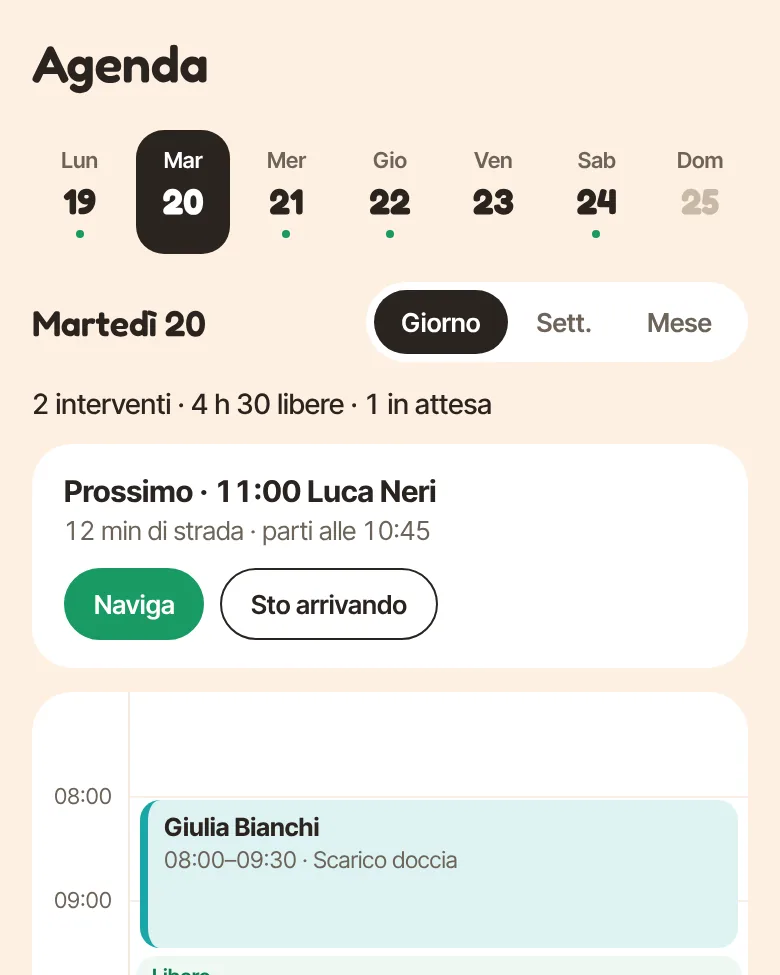
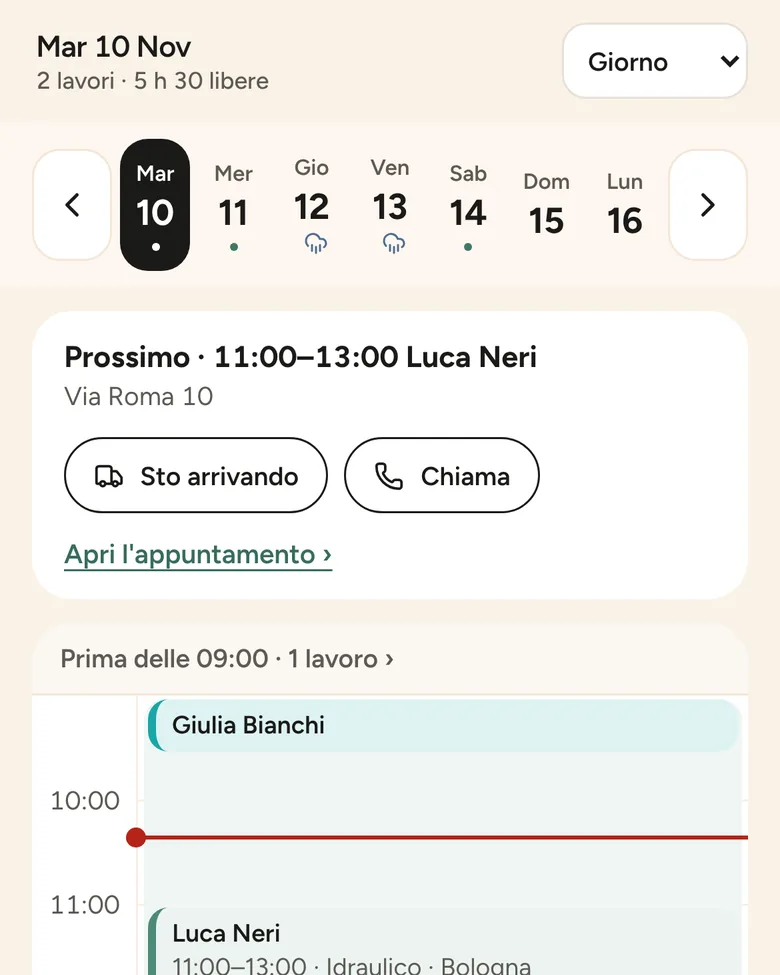
Pagina per i professionisti: agenda con i colori nuovi, prezzo e nessun costo per contatto in alto, iscrizione in fondo e in alto
Claude-Session: https://claude.ai/code/session_01MRkTJUpc92sCTCJFKag1WJ

diff --git a/apps/web/src/app/per-professionisti/PerProfessionistiContent.tsx b/apps/web/src/app/per-professionisti/PerProfessionistiContent.tsx
@@ -57,14 +57,16 @@ export function PerProfessionistiContent({ founders = null }: { founders?: Found
 
   return (
     <YStack width="100%" alignItems="center" backgroundColor="transparent">
-      <ProHero ctaHref={ctaHref} ctaLabel={ctaLabel} />
+      {/* Prima come si trovano i clienti, poi come si viene pagati
+          (docs/changelog/2026-11-12-pagina-per-professionisti.md). */}
+      <ProHero ctaHref={ctaHref} ctaLabel={ctaLabel} offerMonths={founders?.offerMonths ?? null} />
       <ProPhoto />
-      <ProOnlinePayment />
       <ProBenefits />
       <ProSteps />
+      <ProOnlinePayment />
       <ProPricing isProfessional={Boolean(user?.isProfessional)} founders={founders} />
       <ProFaq offerMonths={founders?.offerMonths ?? null} />
-      <ProFinalCta />
+      <ProFinalCta ctaHref={ctaHref} ctaLabel={ctaLabel} />
     </YStack>
   );
 }
@@ -150,7 +152,24 @@ function SectionTitle({ children, lead }: { children: ReactNode; lead?: string }
 }
 
 /** Titolo centrato a due toni con alone verde, pillola sopra e due pulsanti. */
-function ProHero({ ctaHref, ctaLabel }: { ctaHref: string; ctaLabel: string }) {
+/**
+ * Tre punti sotto i pulsanti, già nel primo schermo
+ * (docs/changelog/2026-11-12-pagina-per-professionisti.md): niente costo per
+ * contatto (i siti simili fanno pagare ogni richiesta), il prezzo vero dopo i
+ * mesi gratis, nessun vincolo.
+ */
+function heroPoints(offerMonths: number | null): string[] {
+  const base = SUBSCRIPTION_TIERS.find((tier) => tier.tier === "BASE");
+  const price = base ? `${formatEur(base.priceEurCents)} + IVA al mese` : null;
+  const months = offerMonths === 1 ? "1 mese gratis" : `${offerMonths} mesi gratis`;
+  return [
+    "Nessun costo per contatto",
+    ...(price ? [offerMonths ? `${months}, poi ${price}` : `Da ${price}`] : []),
+    "Annulli quando vuoi",
+  ];
+}
+
+function ProHero({ ctaHref, ctaLabel, offerMonths }: { ctaHref: string; ctaLabel: string; offerMonths: number | null }) {
   return (
     <Band>
       <div
@@ -195,7 +214,7 @@ function ProHero({ ctaHref, ctaLabel }: { ctaHref: string; ctaLabel: string }) {
           </Text>
 
           <Text fontSize="6" lineHeight="28px" color={brand.grafite70} textAlign="center" maxWidth={560}>
-            Ricevi richieste di lavoro vicino a te, manda preventivi chiari e gestisci appuntamenti e recensioni in un unico posto.
+            Richieste di lavoro vicino a te, preventivi chiari, agenda e recensioni. Tutto in un posto.
           </Text>
 
           <XStack gap="3" flexWrap="wrap" justifyContent="center" marginTop="2">
@@ -209,11 +228,15 @@ function ProHero({ ctaHref, ctaLabel }: { ctaHref: string; ctaLabel: string }) {
             </Link>
           </XStack>
 
-          <XStack gap="2" alignItems="center">
-            <Icon name="shield-check" size={16} color={brand.cianografiaScuro} strokeWidth={1.75} />
-            <Text fontSize={16} color={brand.grafite70}>
-              Iscrizione gratuita. La carta serve solo per attivare i mesi gratis.
-            </Text>
+          <XStack render="ul" margin={0} padding={0} gap="2 gtSm:4" flexWrap="wrap" justifyContent="center" flexDirection="column gtSm:row" alignItems="flex-start gtSm:center" style={{ listStyle: "none" }}>
+            {heroPoints(offerMonths).map((point) => (
+              <XStack key={point} render="li" gap="2" alignItems="center">
+                <Check size={16} strokeWidth={2.25} color={brand.cianografiaScuro} aria-hidden style={{ flexShrink: 0 }} />
+                <Text fontSize={15} color={brand.grafite}>
+                  {point}
+                </Text>
+              </XStack>
+            ))}
           </XStack>
           <InviteWelcome />
         </YStack>
@@ -234,7 +257,7 @@ const { props: AGENDA_DESKTOP } = getImageProps({
   src: "/page-photos/per-professionisti-agenda.webp",
   alt: AGENDA_ALT,
   width: 1600,
-  height: 1168,
+  height: 800,
   priority: true,
   sizes: "(max-width: 1200px) 100vw, 1100px",
 });
@@ -437,7 +460,8 @@ function ProBenefits() {
               ))}
             </XStack>
             <MiniLine strong>«Puntuale e pulito, lo richiamerò.»</MiniLine>
-            <MiniLine>Giulia R. · Lavoro fatto tramite il sito</MiniLine>
+            {/* "Esempio": non deve sembrare una recensione vera (niente testimonianze finché non ce ne sono). */}
+            <MiniLine>Esempio · Lavoro fatto tramite il sito</MiniLine>
           </Panel>
         </Cell>
       </Grid>
@@ -535,7 +559,8 @@ function FounderBand({ spots, months }: { spots: FounderSpots; months: number })
       justifyContent="space-between"
     >
       <YStack flex={1} gap="1">
-        <Text render="p" margin={0} fontFamily="heading" fontWeight="800" fontSize="28px gtSm:40px" lineHeight="32px gtSm:44px" letterSpacing={-0.5} color="white">
+        {/* Righe bilanciate: sul telefono "MESI" restava da solo sotto "GRATIS PER 3". */}
+        <Text render="p" margin={0} fontFamily="heading" fontWeight="800" fontSize="24px gtSm:40px" lineHeight="28px gtSm:44px" letterSpacing={-0.5} color="white" style={{ textWrap: "balance" }}>
           {months === 1 ? "GRATIS PER 1 MESE" : `GRATIS PER ${months} MESI`}
         </Text>
         <Text color="white" fontSize={15} lineHeight="21px">
@@ -700,7 +725,8 @@ function ProPricing({ isProfessional, founders }: { isProfessional: boolean; fou
         <YStack gap="2" flexDirection="gtSm:row" flexWrap="gtSm:wrap">
           {SUBSCRIPTION_FEATURES.map((feature) => (
             <XStack key={feature} gap="2" alignItems="flex-start" width="gtSm:50%" paddingRight="3">
-              <Check size={16} strokeWidth={2} color={brand.cianografiaScuro} />
+              {/* flexShrink 0: sul telefono, nelle righe che vanno a capo, la spunta si rimpiccioliva. */}
+              <Check size={16} strokeWidth={2} color={brand.cianografiaScuro} aria-hidden style={{ flexShrink: 0, marginTop: 3 }} />
               <Text color={brand.grafite70} flex={1}>
                 {feature}
               </Text>
@@ -721,7 +747,7 @@ function ProPricing({ isProfessional, founders }: { isProfessional: boolean; fou
 }
 
 /** Solo fatti già decisi e in funzione (CLAUDE.md §5 punto 9, §6). */
-const FAQ: { question: string; answer: string; paymentsLink?: boolean; founderOffer?: boolean }[] = [
+const FAQ: { question: string; answer: string; more?: string; paymentsLink?: boolean; founderOffer?: boolean }[] = [
   {
     // "N" diventa i mesi dell'offerta attiva (docs/changelog/2026-10-29-offerta-mesi-gratis.md).
     question: "Come funzionano i N mesi gratis?",
@@ -735,8 +761,11 @@ const FAQ: { question: string; answer: string; paymentsLink?: boolean; founderOf
   },
   {
     question: "Cosa succede se arrivo al limite di lavori del mio livello?",
+    // Frase breve, il conto dietro "Scopri di più" (docs/changelog/2026-11-12-pagina-per-professionisti.md).
     answer:
-      "Ti avvisiamo prima. Resti nelle ricerche e ricevi le richieste, ma per mandare preventivi nuovi passi al livello sopra: paghi 10 € più la differenza di prezzo per i giorni che mancano al rinnovo, maggiorata del 10% (+ IVA). Altrimenti aspetti il rinnovo, quando i lavori ripartono. I preventivi già mandati restano validi. Su Plus e Pro più lavori allo stesso cliente nello stesso mese contano come uno.",
+      "Ti avvisiamo prima. Resti nelle ricerche e ricevi le richieste; per mandare preventivi nuovi passi al livello sopra o aspetti il rinnovo, quando i lavori ripartono. I preventivi già mandati restano validi.",
+    more:
+      "Passando al livello sopra paghi 10 € più la differenza di prezzo per i giorni che mancano al rinnovo, maggiorata del 10% (+ IVA). Su Plus e Pro più lavori allo stesso cliente nello stesso mese contano come uno.",
   },
   {
     question: "I miei clienti di sempre contano nei lavori del mese?",
@@ -804,6 +833,12 @@ function ProFaq({ offerMonths }: { offerMonths: number | null }) {
                     </>
                   ) : null}
                 </p>
+                {item.more ? (
+                  <details className="pro-faq-more">
+                    <summary>Scopri di più</summary>
+                    <p>{item.more}</p>
+                  </details>
+                ) : null}
               </details>
             ))}
           </div>
@@ -818,7 +853,7 @@ function ProFaq({ offerMonths }: { offerMonths: number | null }) {
           border-bottom: 1px solid ${LINE};
           padding: 20px 24px;
         }
-        .pro-faq-item summary {
+        .pro-faq-item > summary {
           cursor: pointer;
           list-style: none;
           display: flex;
@@ -831,13 +866,13 @@ function ProFaq({ offerMonths }: { offerMonths: number | null }) {
         .pro-faq-item summary::-webkit-details-marker {
           display: none;
         }
-        .pro-faq-item summary::after {
+        .pro-faq-item > summary::after {
           content: "+";
           font-size: 22px;
           line-height: 1;
           color: ${brand.grafite70};
         }
-        .pro-faq-item[open] summary::after {
+        .pro-faq-item[open] > summary::after {
           content: "−";
         }
         .pro-faq-item p {
@@ -845,17 +880,37 @@ function ProFaq({ offerMonths }: { offerMonths: number | null }) {
           color: ${brand.grafite70};
           line-height: 1.6;
         }
+        .pro-faq-more {
+          margin-top: 8px;
+        }
+        .pro-faq-more summary {
+          display: inline-flex;
+          align-items: center;
+          min-height: 44px;
+          cursor: pointer;
+          list-style: none;
+          font-weight: 700;
+          color: ${brand.cianografiaScuro};
+          text-decoration: underline;
+          text-underline-offset: 3px;
+        }
+        .pro-faq-more[open] summary {
+          display: none;
+        }
+        .pro-faq-more p {
+          margin: 0;
+        }
       `}</style>
     </Band>
   );
 }
 
 /**
- * Invito finale semplice come quello di efferd: titolo a due toni e due
- * pulsanti, "Scopri di più" sui pagamenti (§174) e il ritorno alla scelta
- * del livello, dove ora sta il pulsante per iscriversi (§177).
+ * Invito finale semplice come quello di efferd: titolo e due pulsanti, i
+ * pagamenti (§174) e l'iscrizione (prima riportava alla scelta del livello,
+ * §177; docs/changelog/2026-11-12-pagina-per-professionisti.md).
  */
-function ProFinalCta() {
+function ProFinalCta({ ctaHref, ctaLabel }: { ctaHref: string; ctaLabel: string }) {
   return (
     <YStack width="100%" alignItems="center" paddingBottom="9">
       <Band last>
@@ -873,14 +928,16 @@ function ProFinalCta() {
             Inizia a ricevere richieste
           </Text>
           <Text fontSize="5" color={brand.grafite70} textAlign="center" maxWidth={520}>
-            Scegli il tuo livello e crea l&apos;account in un minuto, poi completi il profilo con calma.
+            Crei l&apos;account in un minuto, poi completi il profilo con calma.
           </Text>
           <XStack gap="3" flexWrap="wrap" justifyContent="center">
+            {/* Il pulsante principale porta all'iscrizione, non di nuovo ai prezzi
+                (docs/changelog/2026-11-12-pagina-per-professionisti.md). */}
             <Link href="/per-professionisti/pagamenti" style={{ textDecoration: "none" }}>
-              <Button tabIndex={-1} variant="secondary">Scopri di più</Button>
+              <Button tabIndex={-1} variant="secondary">Come funzionano i pagamenti</Button>
             </Link>
-            <Link href="#prezzi" style={{ textDecoration: "none" }}>
-              <Button tabIndex={-1} variant="primary">Scegli il tuo livello</Button>
+            <Link href={ctaHref} style={{ textDecoration: "none" }}>
+              <Button tabIndex={-1} variant="primary">{ctaLabel}</Button>
             </Link>
           </XStack>
           {/* Per chi non è a suo agio col computer: un operatore crea il

diff --git a/apps/web/src/components/SiteHeader.tsx b/apps/web/src/components/SiteHeader.tsx
@@ -61,6 +61,11 @@ export function SiteHeader() {
   // dentro una richiesta: su /preventivo porterebbe alla pagina già aperta, su
   // /urgente a una richiesta diversa da quella che si sta compilando.
   const isQuotePage = pathname === "/preventivo" || pathname === "/urgente";
+  // Pagine per chi offre un servizio: a chi non ha un account il pulsante in
+  // alto propone l'iscrizione, non la richiesta di preventivo da cliente
+  // (richiesta di Luca, docs/changelog/2026-11-12-pagina-per-professionisti.md).
+  const isProPage = pathname === "/per-professionisti" || pathname.startsWith("/per-professionisti/") || pathname.startsWith("/lavora-con-noi/");
+  const showProSignup = !isLoading && !user && isProPage;
 
   // Ordine delle categorie per la richiesta di preventivo e la registrazione,
   // chiesto a pagina ferma: aprendole le tessere compaiono subito in ordine (§324).
@@ -200,7 +205,14 @@ export function SiteHeader() {
               ogni caricamento di pagina prima di sparire. */}
           {/* Nascosto anche nel profilo di un professionista che accetta
               richieste (`.site-header-cta-link` in globals.css, §385). */}
-          {!isLoading && !user?.isProfessional && !isAuthPage && !isQuotePage ? (
+          {showProSignup ? (
+            <Link href="/registrati?ruolo=professionista" className="site-header-cta-link" style={{ textDecoration: "none" }}>
+              <Button tabIndex={-1} className="site-header-cta" variant="primary" size="3" height={40} paddingHorizontal="4 xs:3">
+                <span className={`is_Text site-header-cta-long ${styles.ctaText} ${styles.ctaText16}`}>Iscriviti gratis</span>
+                <span className={`is_Text site-header-cta-short ${styles.ctaText} ${styles.ctaText16}`}>Iscriviti</span>
+              </Button>
+            </Link>
+          ) : !isLoading && !user?.isProfessional && !isAuthPage && !isQuotePage ? (
             <Link href="/preventivo" className="site-header-cta-link" style={{ textDecoration: "none" }}>
               {/* paddingHorizontal ridotto sotto $xs (≤660px): a 320px (iPhone
                   SE, il più stretto tra i telefoni comuni) il bottone a piena

diff --git a/apps/web/src/app/per-professionisti/page.tsx b/apps/web/src/app/per-professionisti/page.tsx
@@ -5,8 +5,9 @@ import { API_URL } from "@/lib/apiUrl";
 import { openGraphFor } from "@/lib/openGraph";
 
 export const metadata: Metadata = {
-  title: "Per i professionisti",
-  description: "Iscriviti come professionista: ricevi richieste di preventivo dai clienti della tua zona e gestisci la tua agenda.",
+  // Le parole che cerca un artigiano su Google (docs/changelog/2026-11-12-pagina-per-professionisti.md).
+  title: "Lavora come professionista nella tua zona",
+  description: "Iscriviti come professionista: ricevi richieste di lavoro dai clienti della tua zona, senza costo per contatto. Preventivi, agenda e recensioni in un posto.",
   alternates: { canonical: "/per-professionisti" },
   openGraph: openGraphFor("/per-professionisti"),
 };

diff --git a/docs/changelog/2026-11-12-pagina-per-professionisti.md b/docs/changelog/2026-11-12-pagina-per-professionisti.md
@@ -1,0 +1,47 @@
+# Pagina per i professionisti: difetti corretti e proposte A-H (12/11/2026)
+
+**Richiesta** (Luca, thread "Migliorare la pagina per i professionisti"):
+"sistema e migliora questa pagina e valutala come farebbe un professionista
+di alto livello in questo campo" su /per-professionisti. Dopo l'analisi
+(`analisi/per-professionisti/analisi.md` nella cartella del progetto): "a-h",
+tutte le proposte.
+
+**Difetti corretti**:
+- Schermata dell'agenda rifatta dall'agenda vera con l'identità di #324
+  (prima il verde acceso di prima e "Latina" due volte, contro "sito per
+  tutta Italia"): professionista di prova a Bologna, nomi d'esempio, ora
+  fissata a martedì 10/11 alle 10:20. Sul computer la settimana (1600×800,
+  tagliata dove finisce il calendario), sul telefono la giornata (780×975).
+- "Compreso in ogni livello": sul telefono le spunte delle righe che vanno a
+  capo si rimpicciolivano (`flexShrink: 0`).
+- Banda "GRATIS PER 3 MESI": sul telefono "MESI" restava da solo; carattere
+  un po' più piccolo e righe bilanciate.
+- La recensione d'esempio diceva "Giulia R." e sembrava vera: ora "Esempio"
+  (niente testimonianze finché non ce ne sono di vere).
+
+**Proposte fatte**:
+- A. Invito finale: pulsante principale "Iscriviti gratis" verso la
+  registrazione (prima "Scegli il tuo livello" riportava su ai prezzi);
+  "Scopri di più" diventa "Come funzionano i pagamenti".
+- B, C. Sotto i pulsanti del primo schermo tre punti con la spunta: "Nessun
+  costo per contatto", "3 mesi gratis, poi 19 € + IVA al mese" (mesi e
+  prezzo letti dall'offerta attiva e da `SUBSCRIPTION_TIERS`), "Annulli
+  quando vuoi". Sostituiscono "Iscrizione gratuita. La carta serve solo per
+  attivare i mesi gratis."; la carta resta detta nei prezzi ("in
+  automatico"), nelle domande e nei Termini.
+- D. Domanda sul limite di lavori: frase breve, il conto (10 € + differenza
+  + 10%) dietro "Scopri di più".
+- E. Ordine: "Tutto quello che serve" e "Come funziona" prima del
+  "Pagamento online".
+- F. Barra in alto: su /per-professionisti, /per-professionisti/pagamenti e
+  /lavora-con-noi/* chi non ha un account vede "Iscriviti gratis"
+  ("Iscriviti" sotto i 360 px) al posto di "Richiedi preventivo".
+- G. Titolo per Google: "Lavora come professionista nella tua zona", con la
+  descrizione che dice "senza costo per contatto".
+- H. Sottotitolo più corto: "Richieste di lavoro vicino a te, preventivi
+  chiari, agenda e recensioni. Tutto in un posto."
+
+**Verifica**: typecheck e lint di `apps/web`; sito e API in locale con un
+database di prova; foto prima e dopo di computer e telefono in
+`anteprime/per-professionisti/` della cartella del progetto; nessuno
+scorrimento orizzontale a 390 e 320 px.
